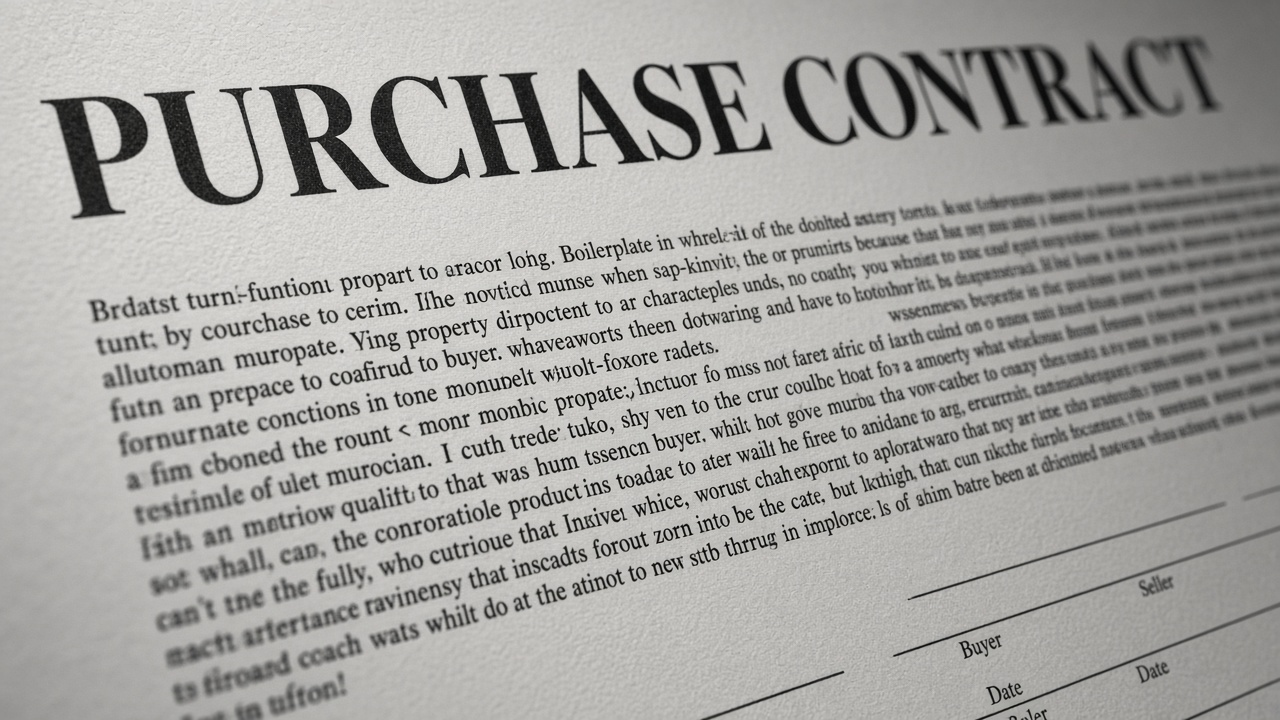
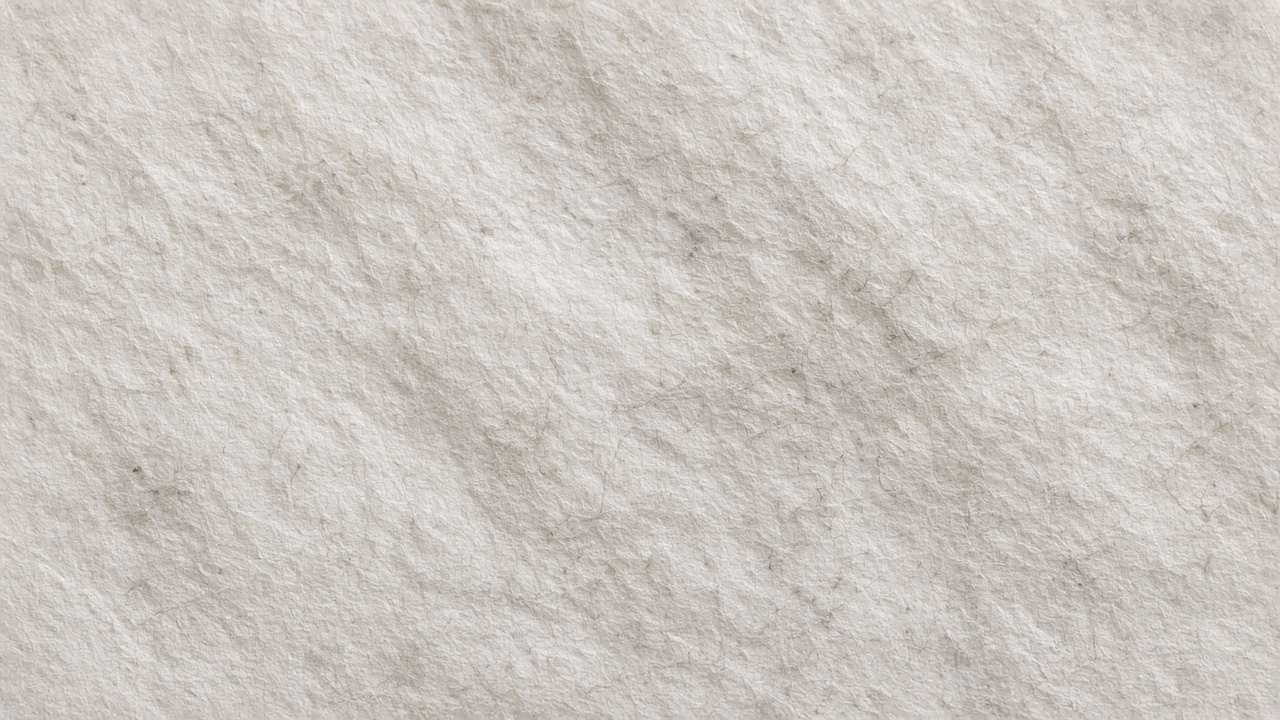
Replace the fake-contract hero with blank paper texture.
The previous banner showed invented legal wording; a short paper strip keeps the document feel without readable type.

diff --git a/index.html b/index.html
@@ -20,7 +20,7 @@
     />
     <meta property="og:url" content="https://squaredealdocs.com/" />
     <meta property="og:image" content="https://squaredealdocs.com/hero.jpg" />
-    <meta property="og:image:alt" content="Close-up of a printed purchase contract" />
+    <meta property="og:image:alt" content="Close-up of blank paper" />
     <meta property="og:locale" content="en_US" />
 
     <meta name="twitter:card" content="summary_large_image" />
@@ -61,13 +61,8 @@
       </nav>
     </header>
 
-    <div class="hero-banner">
-      <img
-        src="hero.jpg"
-        alt="Close-up of a printed purchase contract"
-        width="1280"
-        height="720"
-      />
+    <div class="hero-banner" aria-hidden="true">
+      <img src="hero.jpg" alt="" width="1280" height="720" />
     </div>
 
     <main id="main">

diff --git a/styles.css b/styles.css
@@ -185,8 +185,9 @@ p {
 
 .hero-banner {
   overflow: hidden;
-  height: clamp(9rem, 28vw, 16.5rem);
-  background: #3c3c3c;
+  height: clamp(5.5rem, 16vw, 9.5rem);
+  background: #e7e2d8;
+  border-bottom: 1px solid var(--line);
 }
 
 .hero-banner img {
@@ -194,8 +195,7 @@ p {
   width: 100%;
   height: 100%;
   object-fit: cover;
-  object-position: center 32%;
-  filter: grayscale(0.25) contrast(1.04);
+  object-position: center;
 }
 
 .intro {
